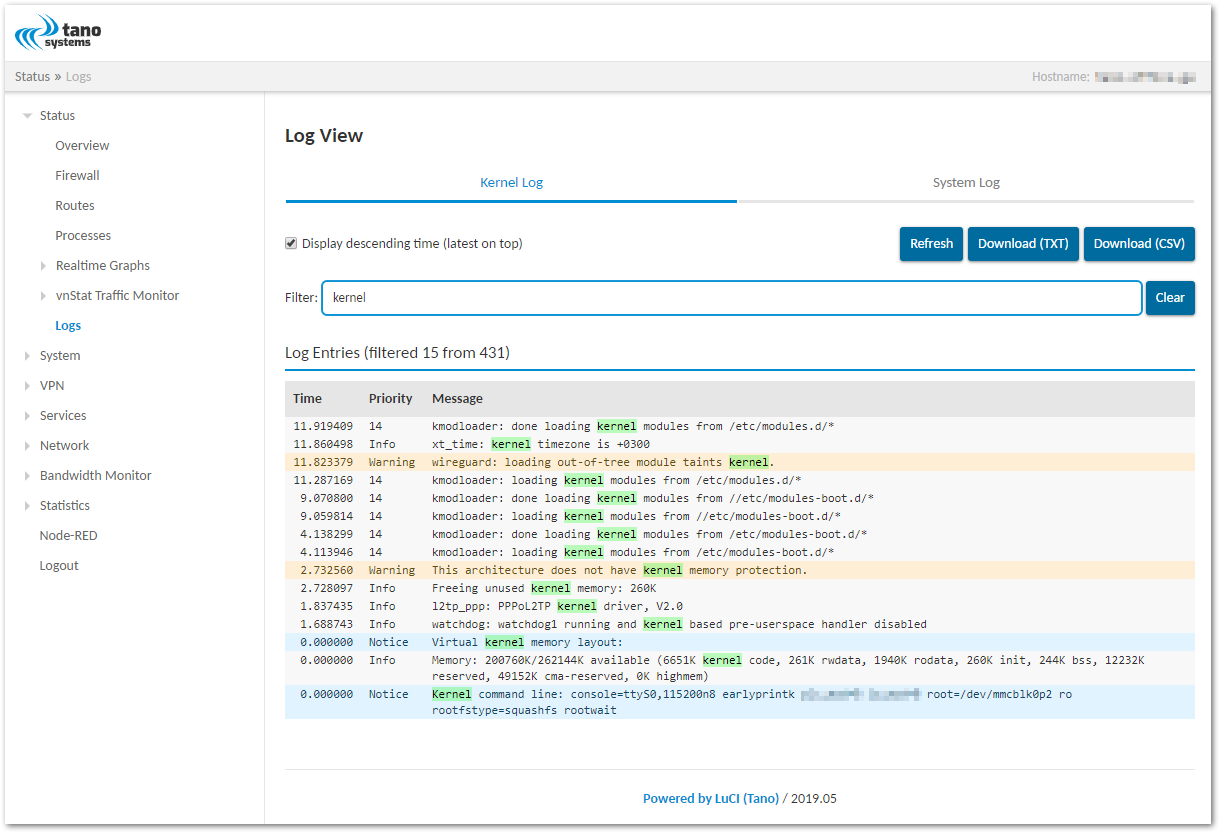
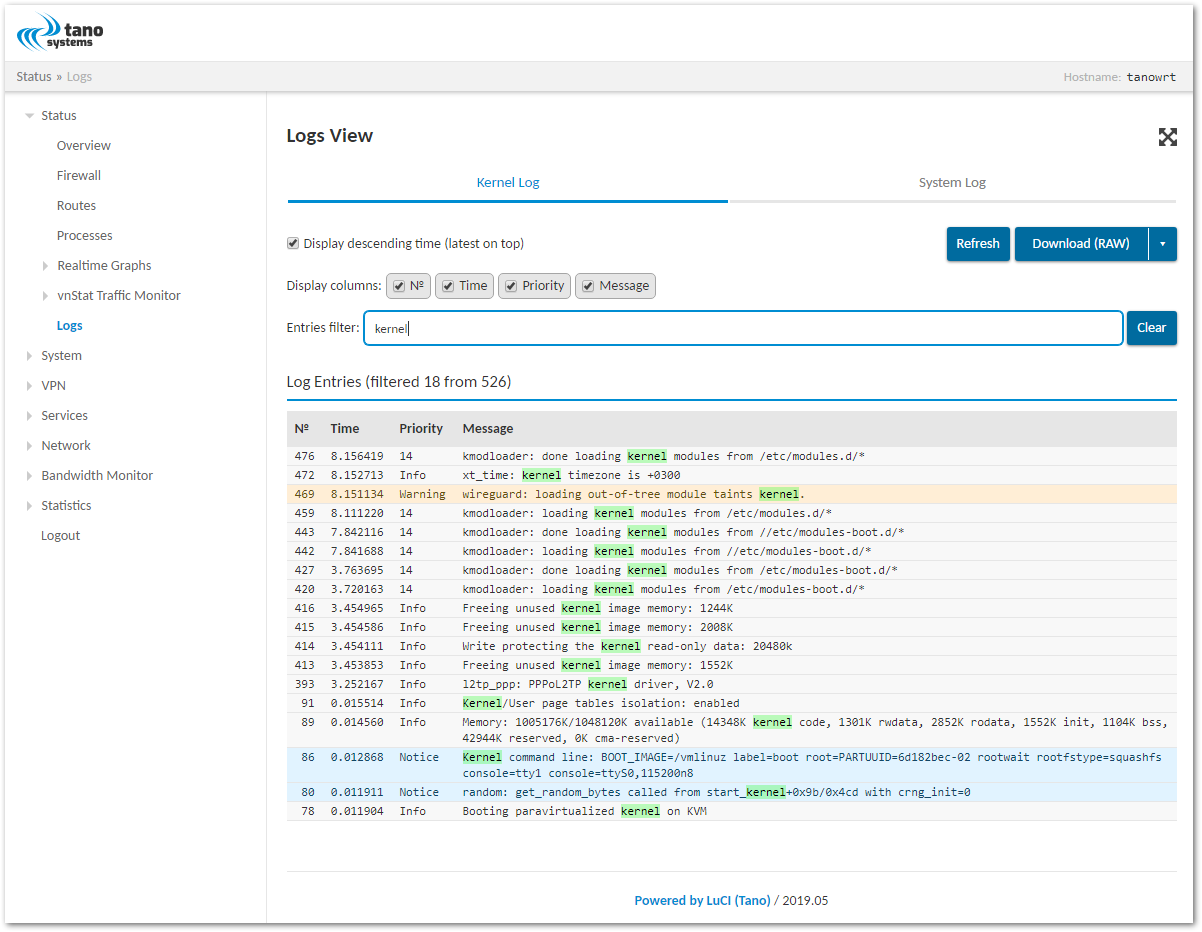
README.md: Update screenshots

diff --git a/README.md b/README.md
@@ -14,8 +14,11 @@ This application requires a installed [Syslog File Converter](https://github.com
 
 ## Screenshots
 
-### Log View
-![Log View](screenshots/luci-app-tn-logview.png?raw=true "Log View")
+### Logs View
+![Logs View](screenshots/luci-app-tn-logview.png?raw=true "Logs View")
 
 ### Entries Filter
 ![Entries Filter](screenshots/luci-app-tn-logview-filter.png?raw=true "Entries Filter")
+
+### Expanded View
+![Expanded View](screenshots/luci-app-tn-logview-expanded.png?raw=true "Expanded View")
